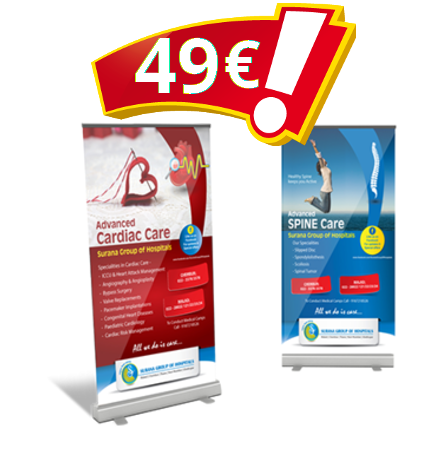
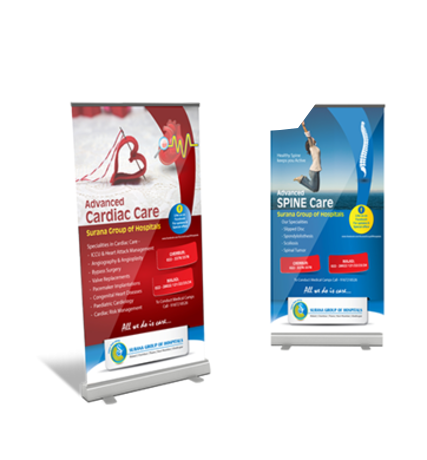
slider

diff --git a/index.html b/index.html
@@ -131,7 +131,7 @@ document.getElementById('cookie1').style.bottom = '-50px';
                <a href="contact.html" class="button medium normal">Contactar</a>
              </div>
              
-             <img src="images/img/sliders/slider-1/slider-item-3.png" class="item" data-topimage="8%"/>
+             <img src="images/img/sliders/slider-1/slider-item-4.png" class="item" data-topimage="8%"/>
            
            </div>
          </div><!-- End Container -->
@@ -153,7 +153,7 @@ document.getElementById('cookie1').style.bottom = '-50px';
                <a href="somos.html" class="button medium normal">Saber más</a>
                <a href="#" class="button medium black">Trabajos</a>
              </div> 
-              <img src="images/img/sliders/slider-1/slider-item-3.png" class="item" data-topimage="10%"/>
+              <img src="images/img/sliders/slider-1/slider-item-3.png" class="item" data-topimage="8%"/>
            </div>
          </div><!-- End Container -->
           
@@ -177,7 +177,7 @@ document.getElementById('cookie1').style.bottom = '-50px';
                <a href="#" class="button medium black">Trabajos</a>
               </span>
              </div>
-             
+             <img src="images/img/sliders/slider-1/slider-item-1.png" class="item" data-topimage="8%"/>
            </div>
          </div><!-- End Container -->
           
@@ -197,7 +197,7 @@ document.getElementById('cookie1').style.bottom = '-50px';
                
              </div>
              
-             <img src="images/img/sliders/slider-1/slider-item-1.png" class="item"  data-topimage="16%"/>
+             <img src="images/img/sliders/slider-1/slider-item-2.png" class="item"  data-topimage="5%"/>
            
            </div>
          </div><!-- End Container -->
